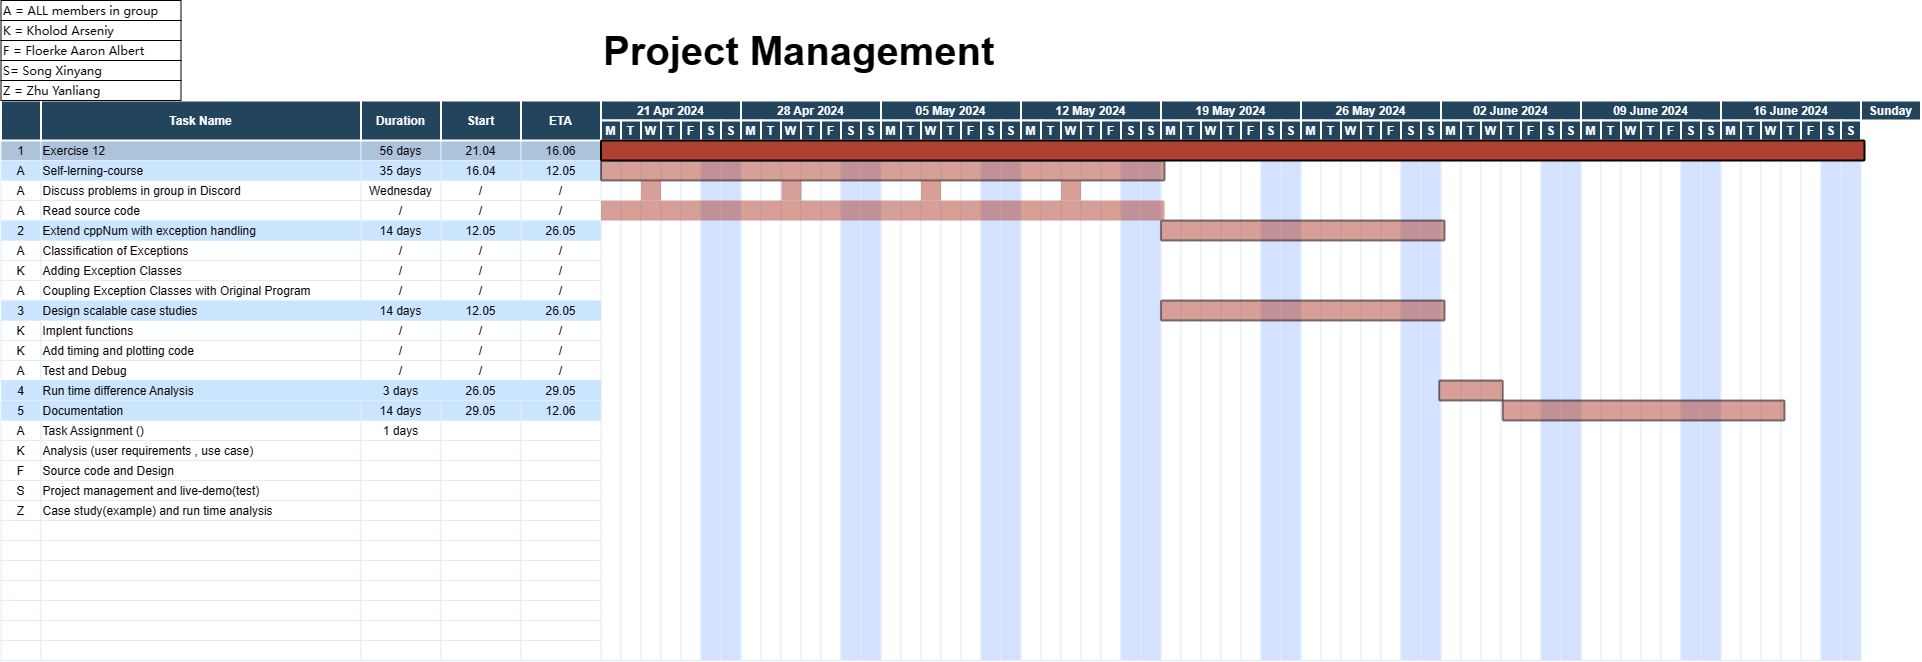
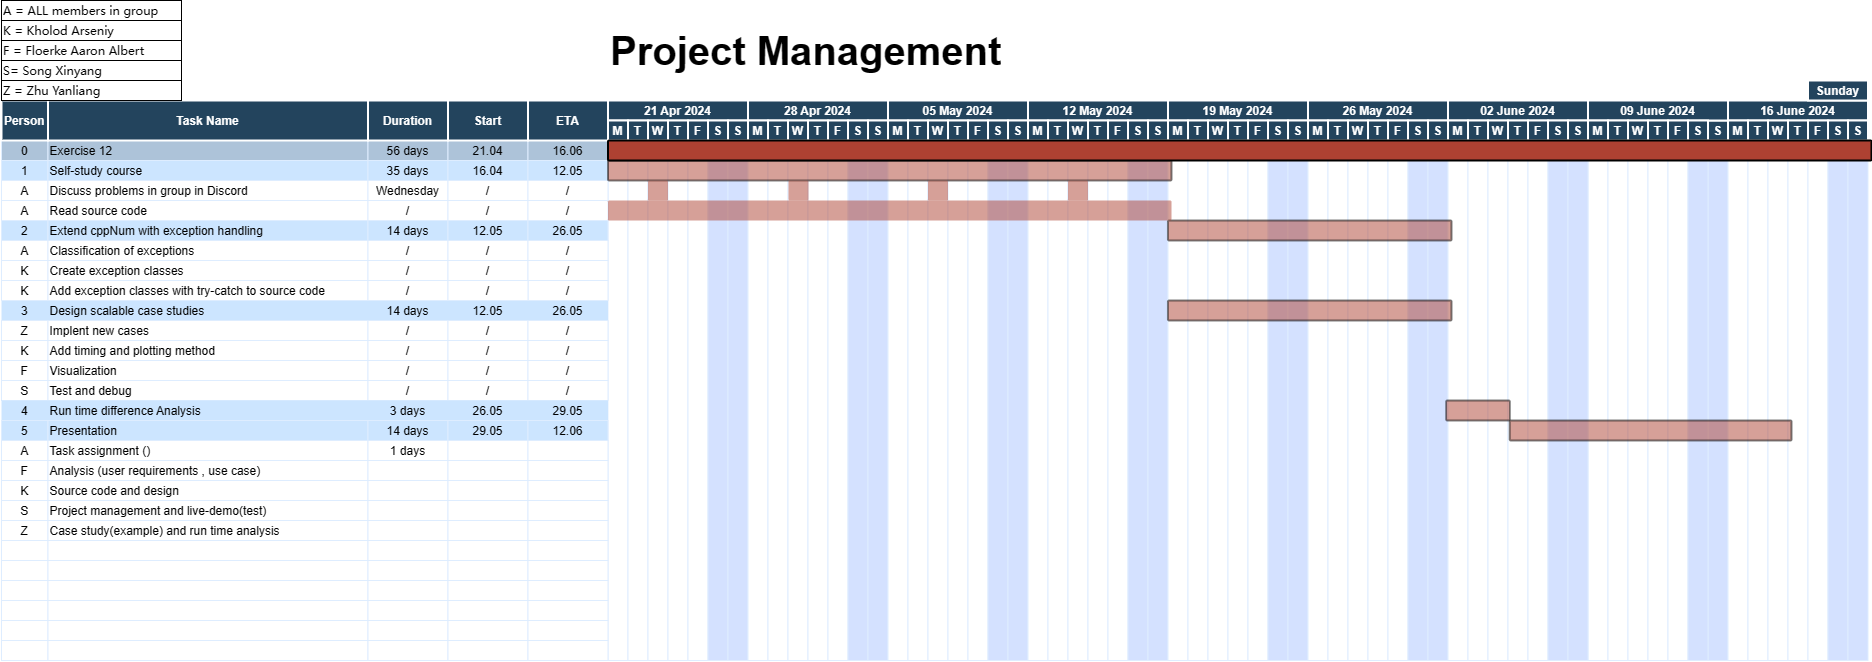
unite yhu and aaron

diff --git a/talk/slides.tex b/talk/slides.tex
@@ -19,20 +19,6 @@
 \tableofcontents
 \end{frame}
 
-\section{Preface}
-
-\begin{frame}
-\frametitle{Preface \\
-	\small \color{rwth-blue} Exception Handling}
-
-	\begin{itemize}
-		\item Software always has a working domain.
-		\item User of the software is not aware of all limitations.
-		\item Software developer helps user by introducing appropriate exception handling.
-		\item Our task is to introduce an exception handling to cppNum v2.4 and v2.5.
-	\end{itemize}
-\end{frame}
-
 \section{Analysis}
 
 \subsection{User Requirements}
@@ -46,8 +32,6 @@
 		\item Compare general behavior and run times with the exception handling-free version.
 	\end{itemize}
 \end{frame}
-
-\subsection{fisch}
 
 \begin{frame}
 \frametitle{Analysis \\
@@ -66,7 +50,7 @@
 	\begin{itemize}
 		\item \textbf{Exception Handling:}
 		\begin{itemize}
-			\item An exception is thrown, if the system is not able to produce the correct result
+			\item An exception is thrown, if unintended input is put into the system
 			\item An exception is thrown when the system behaves in an unintended way. 
                 \item An exception should be handled in such a way, as to prevent a potential crash of the system, if possible.
 			\item The system must integrate C++ exception handling mechanisms in cppNum versions v2.4 and v2.5.
@@ -101,7 +85,7 @@
 		\item \textbf{Performance:}
 		\begin{itemize}
 			\item The system must ensure that the overhead introduced by exception handling is minimized.
-			\item The system should not degrade the performance of cppNum versions v2.4 and v2.5 by more than 10%.
+			\item The system should not degrade the performance of cppNum versions v2.4 and v2.5.
 		\end{itemize}
 		\item \textbf{Reliability:}
 		\begin{itemize}
@@ -534,10 +518,123 @@
 
 \subsection{Software Tests}
 
+\begin{frame}[fragile]
+\frametitle{Implementation: Case Study \\
+	\small \color{rwth-blue} Function: 4th order convex polynomial}
+	The function is:
+	\[ f(x, p) = 0.5 \cdot (p(i) + x(i))^2 + 0.2 \cdot (x(i) - p(i))^4 \]
+	\begin{lstlisting}
+		#pragma once
+		#include "cppNum/convexObjective/objective.hpp"
+		#include <cassert>
+		#include <cmath>
+		
+		template<typename T> 
+		T co::objective_t::f(const la::vector_t<T> &x, const la::vector_t<T> &p) { 
+		using namespace std;
+		int n=x.size(); assert(n>=1); assert(p.size()==n);
+		T y=0;
+		for (int i=0;i<n;++i) y+=0.5*pow(p(i)+x(i),2) + 0.2*pow(x(i)-p(i),4);
+		return y;
+		}
+	\end{lstlisting}
+\end{frame}
+	
+\begin{frame}[fragile]
+\frametitle{Implementation: Case Study \\
+	\small \color{rwth-blue} Function: cosh}
+	The function is:
+	\[ f(x, p) = \cosh(x(i) + p(i)) \]
+	\begin{lstlisting}
+		#pragma once
+		#include "cppNum/convexObjective/objective.hpp"
+		#include <cassert>
+		#include <cmath>
+		
+		template<typename T> 
+		T co::objective_t::f(const la::vector_t<T> &x, const la::vector_t<T> &p) { 
+		using namespace std;
+		int n=x.size(); assert(n>=1); assert(p.size()==n);
+		T y=0;
+		for (int i=0;i<n;++i) y+=cosh(x(i)+p(i));
+		return y;
+		}
+	\end{lstlisting}
+\end{frame}
+	
+\begin{frame}[fragile]
+\frametitle{Implementation: Case Study \\
+	\small \color{rwth-blue} Function: fountain chain}
+	\begin{figure}
+		\centering
+		\includegraphics[width=0.8\textwidth]{figures/fountain_chain.png}
+		\caption{Fountain Chain}
+	\end{figure}
+\end{frame}
+	
+\begin{frame}[fragile]
+\frametitle{Implementation: Case Study \\
+	\small \color{rwth-blue} Function: fountain chain}
+	The function is:
+	\[
+	r(0) = \frac{1}{p_2} \left( p_0 - p_3 \sqrt{2 p_1 x_0} \right)
+	\]
+	
+	\[
+	r(i) = \frac{1}{p_{2i+2}} \left( p_{2i+1} \sqrt{2 p_1 x_{i-1}} - p_{2i+3} \sqrt{2 p_1 x_i} \right), \quad i = 1, 2, \ldots, n-1
+	\]
+	\begin{lstlisting}
+		#pragma once
+		#include "cppNum/differentialSystem/system.hpp"
+		#include <cassert>
+		
+		template<typename T>
+		la::vector_t<T> ds::system_t::G(const la::vector_t<T> &x, const la::vector_t<T> &p) {
+		int n = x.size();
+		assert(p.size() == 2*n + 2);
+		assert(n >= 2);
+		la::vector_t<T> r(n);
+		r(0) = (1/p(2))*(p(0) - p(3)*sqrt(2*p(1)*x(0)));
+		for(int i = 1; i < n; i++) {
+			r(i) = (1/p(2*i + 2))*(p(2*i + 1)*sqrt(2*p(1)*x(i - 1)) - p(2*i + 3)*sqrt(2*p(1)*x(i)));
+		}
+		return r;
+	}
+	\end{lstlisting}
+\end{frame}
+		
+\begin{frame}[fragile]
+\frametitle{Implementation: Case Study \\
+	\small \color{rwth-blue} Function: linear ode}
+	The function is:
+	\[
+	\frac{d\mathbf{x}}{dt} = A \mathbf{x} + \mathbf{b}
+	\]
+	
+	\[
+	r_i = \sum_{j=0}^{n-1} A_{ij} x_j
+	\]
+	\begin{lstlisting}
+		#pragma once
+		#include "cppNum/differentialSystem/system.hpp"
+		#include <cassert>
+		
+		template<typename T>
+		la::vector_t<T> ds::system_t::G(const la::vector_t<T> &x, const la::vector_t<T> &p) {
+		int n=x.size();
+		assert(p.size()==n*n);
+		la::vector_t<T> r=la::vector_t<T>::Zero(n);
+		for(int i=0; i<n; i++)
+			for(int j=0; j<n; j++)
+			r(i)+=p(i*n+j)*x(j);
+		return r;
+		}
+	\end{lstlisting}
+\end{frame}
+	
 \begin{frame}
-\frametitle{Implementation \\
+\frametitle{Implementation: Run Time Difference \\
 	\small \color{rwth-blue} Software Tests 2.4: Convex Polynomial and Cosh Function}
-
 	\begin{figure}
 		\centering
 		\includegraphics[width=0.65\textwidth]{figures/2.4_4th_order_convex_polynomial.png}
@@ -545,11 +642,10 @@
 		\includegraphics[width=0.65\textwidth]{figures/2.4_cosh.png}
 	\end{figure}
 \end{frame}
-
+	
 \begin{frame}
-\frametitle{Implementation \\
+\frametitle{Implementation: Run Time Difference \\
 	\small \color{rwth-blue} Software Tests 2.5: Fountain Chain and Linear ODE}
-
 	\begin{figure}
 		\centering
 		\includegraphics[width=0.65\textwidth]{figures/2.5_fountain_chain.png}
@@ -557,47 +653,44 @@
 		\includegraphics[width=0.65\textwidth]{figures/2.5_linear_ode.png}
 	\end{figure}
 \end{frame}
-
+	
 \begin{frame}
-\frametitle{Implementation \\
+\frametitle{Implementation: Run Time Difference \\
 	\small \color{rwth-blue} Software Tests: Conclusion}
-
 	\begin{itemize}
-		\item Differences between the versions with and without exception handling:
+		\item Differences between the versions with and without exception handling under different problem sizes:
 		\begin{itemize}
-			\item The process of checking the matrix occurs before the program calculations begin, so the difference between the exception handling-free versions and the original program is most noticeable at the beginning.
-			\item Subsequently, most operations involve differentiation, integration and matrix calculations, etc., where there is essentially no difference between the two versions.
+			\item The difference is minimal because the resources used for exception handling in the program are very small and almost negligible. 
+			\item Most of the resources are utilized for calculating derivatives, performing differentiation, and iterative solving.
 		\end{itemize}
 	\end{itemize}
 \end{frame}
-
-
-
+			
 \section{Project Management}
-
 \begin{frame}
 \frametitle{Project Management \\
 	\small \color{rwth-blue} Task}
 	\begin{itemize}	
-            \item \textbf{1.Self-study course:}
+			\item \textbf{1.Self-study course:}
 				\begin{itemize}
-					\item Read source code.
 					\item Discuss problems in group in Discord.
+					\item Read source code.
 				\end{itemize}
-			\item \textbf{Extend cppNum with exception handling:}
+			\item \textbf{2.Extend cppNum with exception handling:}
 				\begin{itemize}
 					\item Classification of Exceptions
-					\item Add exception classes as specified in the class diagram and in alignment with the standard exception library
-					\item Couple Exception Classes with Original Program
+					\item Create exception classes
+					\item Add exception classes with try-catch to source code
 				\end{itemize}
 			\item \textbf{3.Design scalable case studies:}
 				\begin{itemize}
 				\item Implent new cases
 				\item Add timing and plotting method
+				\item Visualization
 				\item Test and Debug
 				\end{itemize}
-			\item \textbf{4.Run time difference Analysis}
-			\item \textbf{5.Design scalable case studies:}
+			\item \textbf{4.Run time difference Analysis:}
+			\item \textbf{5.Presentation:}
 				\begin{itemize}
 				\item Analysis (user requirements , use case)
 				\item Source code and design
@@ -607,34 +700,32 @@
 			\item *The following page of the PDF outlines the responsibilities of each person.
 	\end{itemize}
 \end{frame}
-
+	
 \begin{frame}
 \frametitle{Project Management \\
-    \small \color{rwth-blue} Gantt Chart}
-    
-    \begin{center}
-        \includegraphics[width=\textwidth]{figures/project management.png}
-    \end{center}
+	\small \color{rwth-blue} Gantt Chart}
+	
+	\begin{center}
+		\includegraphics[width=\textwidth]{figures/project management.png}
+	\end{center}
 \end{frame}
 
 \begin{frame}
 \frametitle{Project Management \\
-    \small \color{rwth-blue} Task Assignment}
-    
-    \begin{flushleft}
-        \includegraphics[height=\textheight,keepaspectratio]{figures/project management.png}
-    \end{flushleft}
+	\small \color{rwth-blue} Task Assignment}
+	
+	\begin{flushleft}
+		\includegraphics[height=\textheight,keepaspectratio]{figures/project management.png}
+	\end{flushleft}
 \end{frame}
-
-
-
+	
 \section{Live Software Demo}
 
 \begin{frame}
 \frametitle{Live Software Demo \\
 	\small \color{rwth-blue} Run in Xubuntu}
 	\begin{itemize}	
-            \item \textbf{1.Make:}
+			\item \textbf{1.Make:}
 				\begin{itemize}
 				\item make depend
 				\item make
